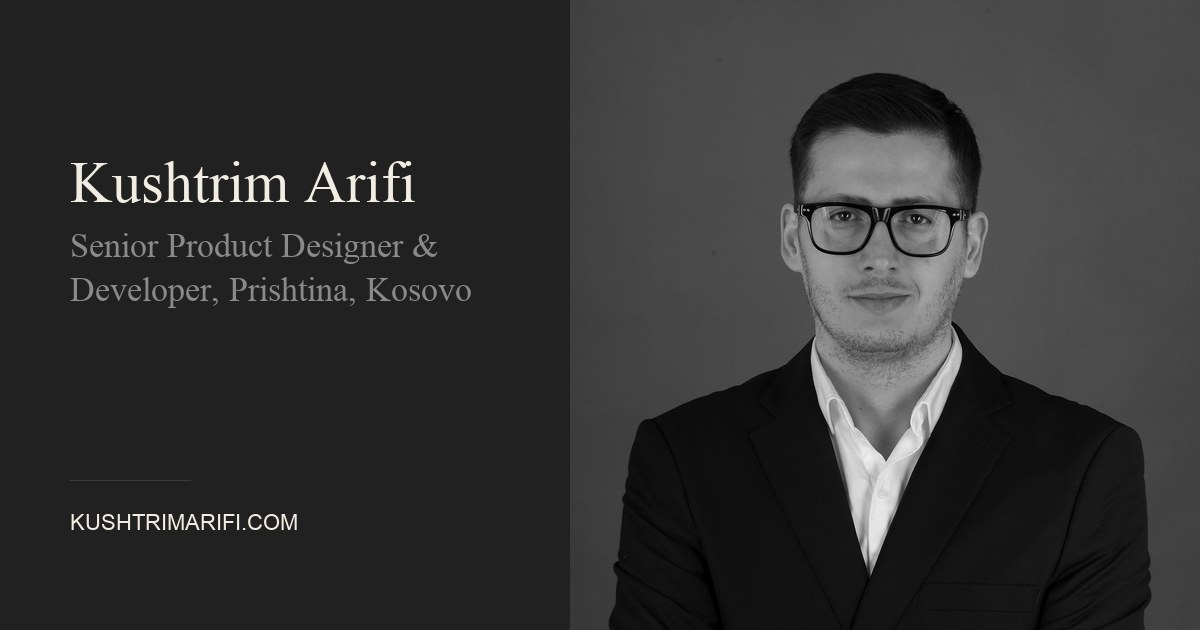
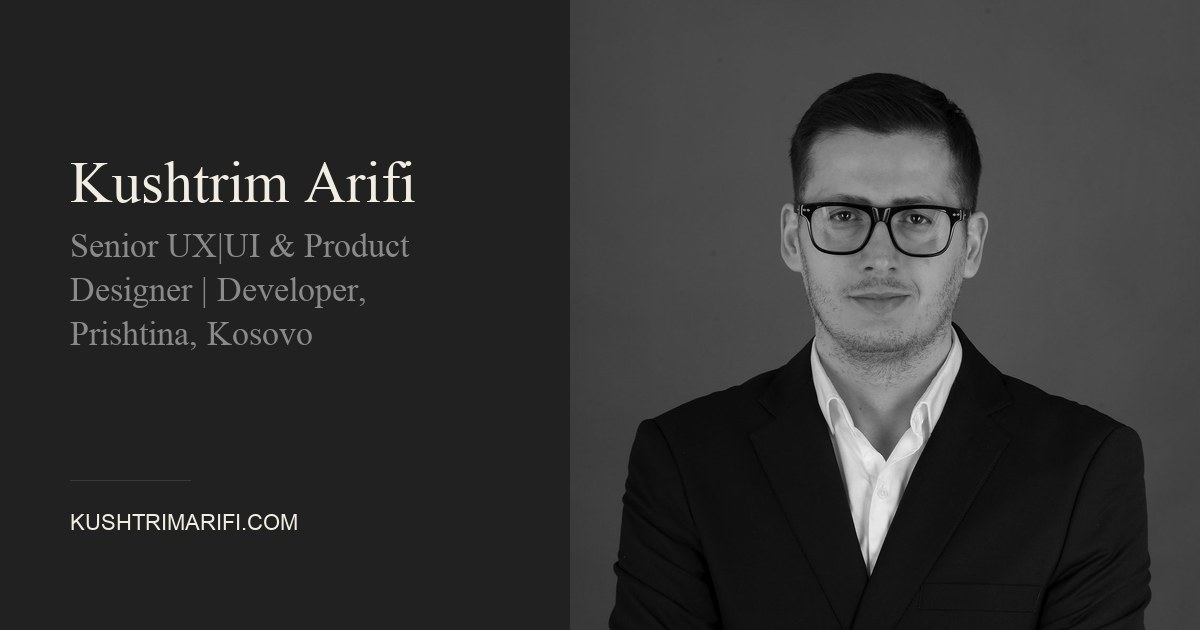
New title: Senior UX|UI & Product Designer | Developer
In place of "Senior Product Designer & Developer" wherever the site gives it as my
title: the home hero caption (still two lines), page titles, descriptions, link-preview
texts and the home and About preview pictures, picture descriptions, the About intro, the
job title in the structured data on every page, the 404 page and the app manifest. The
MONUN role in the experience and CV lists keeps its name. Sitemap dates for home and
About.

Changed region(s): [[0.0925, 0.3619, 0.4008, 0.4825], [0.0617, 0.5127, 0.2775, 0.573]]

diff --git a/index.html b/index.html
@@ -5,9 +5,9 @@
     <meta charset="UTF-8">
     <meta name="viewport" content="width=device-width, initial-scale=1.0">
     <meta name="theme-color" content="#000000">
-    <title>Kushtrim Arifi — Senior Product Designer &amp; Developer, Kosovo</title>
+    <title>Kushtrim Arifi — Senior UX|UI &amp; Product Designer | Developer, Kosovo</title>
     <meta name="description"
-        content="Senior Product Designer & Developer with 10+ years designing web products, from user research to production code in React and Next.js. Based in Kosovo.">
+        content="Senior UX|UI & Product Designer | Developer with 10+ years designing web products, from user research to production code in React and Next.js. Based in Kosovo.">
     <meta name="keywords"
         content="Kushtrim Arifi, UX Designer Schweiz, UI Designer, Front-End Engineer, Webdesigner Zürich, Web Developer, Portfolio, Design Systems, Brand Design, Frontend Entwickler, UX UI Designer Kosovo, Figma Designer">
     <meta name="author" content="Kushtrim Arifi">
@@ -15,15 +15,15 @@
     <link rel="canonical" href="https://kushtrimarifi.com/">
 
     <!-- Open Graph -->
-    <meta property="og:title" content="Kushtrim Arifi — Senior Product Designer &amp; Developer, Kosovo">
+    <meta property="og:title" content="Kushtrim Arifi — Senior UX|UI &amp; Product Designer | Developer, Kosovo">
     <meta property="og:description"
-        content="Senior Product Designer & Developer with 10+ years designing web products, from user research to production code in React and Next.js. Based in Kosovo.">
+        content="Senior UX|UI & Product Designer | Developer with 10+ years designing web products, from user research to production code in React and Next.js. Based in Kosovo.">
     <meta property="og:type" content="profile">
     <meta property="og:url" content="https://kushtrimarifi.com/">
     <meta property="og:image" content="https://kushtrimarifi.com/img/share/home.jpg">
     <meta property="og:image:width" content="1200">
     <meta property="og:image:height" content="630">
-    <meta property="og:image:alt" content="Kushtrim Arifi — Senior Product Designer &amp; Developer, Prishtina, Kosovo, by Kushtrim Arifi">
+    <meta property="og:image:alt" content="Kushtrim Arifi — Senior UX|UI &amp; Product Designer | Developer, Prishtina, Kosovo, by Kushtrim Arifi">
     <meta property="og:site_name" content="Kushtrim Arifi">
     <meta property="og:locale" content="en_US">
     <meta property="profile:first_name" content="Kushtrim">
@@ -31,11 +31,11 @@
 
     <!-- Twitter Card -->
     <meta name="twitter:card" content="summary_large_image">
-    <meta name="twitter:title" content="Kushtrim Arifi — Senior Product Designer &amp; Developer, Kosovo">
+    <meta name="twitter:title" content="Kushtrim Arifi — Senior UX|UI &amp; Product Designer | Developer, Kosovo">
     <meta name="twitter:description"
-        content="Senior Product Designer & Developer with 10+ years designing web products, from user research to production code in React and Next.js. Based in Kosovo.">
+        content="Senior UX|UI & Product Designer | Developer with 10+ years designing web products, from user research to production code in React and Next.js. Based in Kosovo.">
     <meta name="twitter:image" content="https://kushtrimarifi.com/img/share/home.jpg">
-    <meta name="twitter:image:alt" content="Kushtrim Arifi — Senior Product Designer and Developer">
+    <meta name="twitter:image:alt" content="Kushtrim Arifi — Senior UX|UI &amp; Product Designer | Developer">
 
     <!-- Favicon -->
     <link rel="icon" type="image/svg+xml" href="favicon.svg">
@@ -75,12 +75,12 @@
         "name": "Kushtrim Arifi",
         "givenName": "Kushtrim",
         "familyName": "Arifi",
-        "jobTitle": "Senior Product Designer & Developer",
+        "jobTitle": "Senior UX|UI & Product Designer | Developer",
         "url": "https://kushtrimarifi.com/",
         "image": "https://kushtrimarifi.com/img/kaimage.jpg",
         "email": "info@kushtrimarifi.com",
         "telephone": "+38349210999",
-        "description": "Senior Product Designer & Developer with 10+ years of experience designing web and digital products, from user research, information architecture and Figma prototypes to accessible, responsive interfaces, and building them in React, Next.js and TypeScript. 60+ websites and digital projects delivered, with 7+ years working remotely for Swiss companies. MSc in Clinical Psychology, applied to user interviews, usability testing and behavioral insight.",
+        "description": "Senior UX|UI & Product Designer | Developer with 10+ years of experience designing web and digital products, from user research, information architecture and Figma prototypes to accessible, responsive interfaces, and building them in React, Next.js and TypeScript. 60+ websites and digital projects delivered, with 7+ years working remotely for Swiss companies. MSc in Clinical Psychology, applied to user interviews, usability testing and behavioral insight.",
         "knowsAbout": [
           "UX Design",
           "UI Design",
@@ -160,8 +160,8 @@
     <!--
     THESIS: The name around the person. A square portrait on a dark grey field with the name huge on one line through it, "Kushtrim" over its left edge and "Arifi" over its right edge beside the face; the job title small under the start of the name, "Creating since 2015" small at the foot. Refuses the big photo beside a text block.
     OWN-WORLD: #212121 field, #f2ede3 Times New Roman: the name huge, the two captions at one small size; the site's grayscale studio portrait vignetted into the field.
-    STORY: A hiring visitor meets the face and the name first, reads Senior Product Designer & Developer and Creating since 2015 at the foot, then scrolls: the hero holds still while the name starts to burst into particles, and About me follows with the dots still in the air.
-    FIRST VIEWPORT: Square photo just right of centre so the line is centred; "Kushtrim" over its left edge and "Arifi" over its right edge, one line at eye level; "Senior Product Designer & Developer" under the "K" of "Kushtrim", "Creating since 2015" at the foot on the navigation's edge.
+    STORY: A hiring visitor meets the face and the name first, reads Senior UX|UI & Product Designer | Developer and Creating since 2015 at the foot, then scrolls: the hero holds still while the name starts to burst into particles, and About me follows with the dots still in the air.
+    FIRST VIEWPORT: Square photo just right of centre so the line is centred; "Kushtrim" over its left edge and "Arifi" over its right edge, one line at eye level; "Senior UX|UI & Product Designer | Developer" under the "K" of "Kushtrim", "Creating since 2015" at the foot on the navigation's edge.
     FORM: name around the portrait, from the owner's reference image and follow-up notes; a section inside the established world, so no concept seed.
     FINISH: unreviewed and undocumented is unfinished; this build ends with the finish review, the verdict, and DESIGN.md
     -->
@@ -221,7 +221,7 @@
         <div class="hero-stage container">
             <div class="hero-frame">
                 <div class="hero-caption hero-caption--left">
-                    <div class="hero-small-mask"><p class="hero-caption-text">Senior Product Designer &amp;<br>Developer</p></div>
+                    <div class="hero-small-mask"><p class="hero-caption-text">Senior UX|UI &amp; Product Designer |<br>Developer</p></div>
                 </div>
 
                 <h1 class="hero-title-section" aria-label="Kushtrim Arifi">
@@ -233,7 +233,7 @@
                     <picture>
                         <source srcset="img/kaimage.avif" type="image/avif">
                         <source srcset="img/kaimage.webp" type="image/webp">
-                        <img src="img/kaimage.jpg" alt="Kushtrim Arifi, Senior Product Designer and Developer, in a black-and-white portrait" class="hero-portrait" fetchpriority="high" decoding="async" width="1236" height="1200">
+                        <img src="img/kaimage.jpg" alt="Kushtrim Arifi, Senior UX|UI &amp; Product Designer | Developer, in a black-and-white portrait" class="hero-portrait" fetchpriority="high" decoding="async" width="1236" height="1200">
                     </picture>
                 </figure>
 

diff --git a/about.html b/about.html
@@ -5,9 +5,9 @@
     <meta charset="UTF-8">
     <meta name="viewport" content="width=device-width, initial-scale=1.0">
     <meta name="theme-color" content="#000000">
-    <title>About — Senior Product Designer & Developer | Kushtrim Arifi</title>
+    <title>About — Senior UX|UI & Product Designer | Developer | Kushtrim Arifi</title>
     <meta name="description"
-        content="Senior Product Designer & Developer in Prishtina, Kosovo: 10+ years designing web products, 7+ years remote for Swiss companies, MSc in Clinical Psychology.">
+        content="Senior UX|UI & Product Designer | Developer in Prishtina, Kosovo: 10+ years designing web products, 7+ years remote for Swiss companies, MSc in Clinical Psychology.">
     <meta name="keywords"
         content="About Kushtrim Arifi, UX Designer Biography, UX UI Designer Schweiz, Front-End Engineer, Experience, Career, Clinical Psychology UX">
     <meta name="author" content="Kushtrim Arifi">
@@ -15,21 +15,21 @@
     <link rel="canonical" href="https://kushtrimarifi.com/about.html">
 
     <!-- Open Graph -->
-    <meta property="og:title" content="About — Senior Product Designer & Developer | Kushtrim Arifi">
-    <meta property="og:description" content="Senior Product Designer & Developer in Prishtina, Kosovo: 10+ years designing web products, 7+ years remote for Swiss companies, MSc in Clinical Psychology.">
+    <meta property="og:title" content="About — Senior UX|UI & Product Designer | Developer | Kushtrim Arifi">
+    <meta property="og:description" content="Senior UX|UI & Product Designer | Developer in Prishtina, Kosovo: 10+ years designing web products, 7+ years remote for Swiss companies, MSc in Clinical Psychology.">
     <meta property="og:type" content="profile">
     <meta property="og:url" content="https://kushtrimarifi.com/about.html">
     <meta property="og:image" content="https://kushtrimarifi.com/img/share/about.jpg">
     <meta property="og:image:width" content="1200">
     <meta property="og:image:height" content="630">
-    <meta property="og:image:alt" content="Kushtrim Arifi — Senior Product Designer &amp; Developer, Prishtina, Kosovo, by Kushtrim Arifi">
+    <meta property="og:image:alt" content="Kushtrim Arifi — Senior UX|UI &amp; Product Designer | Developer, Prishtina, Kosovo, by Kushtrim Arifi">
     <meta property="og:site_name" content="Kushtrim Arifi">
     <meta property="og:locale" content="en_US">
 
     <!-- Twitter Card -->
     <meta name="twitter:card" content="summary_large_image">
-    <meta name="twitter:title" content="About — Senior Product Designer & Developer | Kushtrim Arifi">
-    <meta name="twitter:description" content="Senior Product Designer & Developer in Prishtina, Kosovo: 10+ years designing web products, 7+ years remote for Swiss companies, MSc in Clinical Psychology.">
+    <meta name="twitter:title" content="About — Senior UX|UI & Product Designer | Developer | Kushtrim Arifi">
+    <meta name="twitter:description" content="Senior UX|UI & Product Designer | Developer in Prishtina, Kosovo: 10+ years designing web products, 7+ years remote for Swiss companies, MSc in Clinical Psychology.">
     <meta name="twitter:image" content="https://kushtrimarifi.com/img/share/about.jpg">
 
     <!-- Favicon -->
@@ -59,12 +59,12 @@
         "name": "Kushtrim Arifi",
         "givenName": "Kushtrim",
         "familyName": "Arifi",
-        "jobTitle": "Senior Product Designer & Developer",
+        "jobTitle": "Senior UX|UI & Product Designer | Developer",
         "url": "https://kushtrimarifi.com/",
         "image": "https://kushtrimarifi.com/img/portrait.jpg",
         "email": "info@kushtrimarifi.com",
         "telephone": "+38349210999",
-        "description": "Senior Product Designer & Developer with 10+ years of experience designing web and digital products, from user research, information architecture and Figma prototypes to accessible, responsive interfaces, and building them in React, Next.js and TypeScript. 60+ websites and digital projects delivered, with 7+ years working remotely for Swiss companies. MSc in Clinical Psychology, applied to user interviews, usability testing and behavioral insight.",
+        "description": "Senior UX|UI & Product Designer | Developer with 10+ years of experience designing web and digital products, from user research, information architecture and Figma prototypes to accessible, responsive interfaces, and building them in React, Next.js and TypeScript. 60+ websites and digital projects delivered, with 7+ years working remotely for Swiss companies. MSc in Clinical Psychology, applied to user interviews, usability testing and behavioral insight.",
         "knowsAbout": ["UX Design", "UI Design", "Front-End Development", "Design Systems", "Brand Design", "Figma", "Web Development", "Clinical Psychology"],
         "knowsLanguage": ["en", "de", "sq"],
         "worksFor": {
@@ -165,12 +165,12 @@
                     <picture>
                         <source srcset="img/kaimage.avif" type="image/avif">
                         <source srcset="img/kaimage.webp" type="image/webp">
-                        <img src="img/kaimage.jpg" alt="Kushtrim Arifi, Senior Product Designer and Developer, in a black-and-white portrait" width="1236" height="1200" fetchpriority="high" decoding="async">
+                        <img src="img/kaimage.jpg" alt="Kushtrim Arifi, Senior UX|UI &amp; Product Designer | Developer, in a black-and-white portrait" width="1236" height="1200" fetchpriority="high" decoding="async">
                     </picture>
                     <div class="about-intro-shade" aria-hidden="true"></div>
                 </figure>
                 <div class="about-intro-text">
-                    <p>I’m <span class="about-accent">Kushtrim</span>, a Senior Product Designer &amp; Developer based in Prishtina, Kosovo. I design websites and digital products, with a focus on usability and interaction design. I aim to <span class="about-accent">reduce cognitive load</span> through clear navigation, a strong visual hierarchy, and consistent interactions, helping people find what they need and understand what to do next.</p>
+                    <p>I’m <span class="about-accent">Kushtrim</span>, a Senior UX|UI &amp; Product Designer | Developer based in Prishtina, Kosovo. I design websites and digital products, with a focus on usability and interaction design. I aim to <span class="about-accent">reduce cognitive load</span> through clear navigation, a strong visual hierarchy, and consistent interactions, helping people find what they need and understand what to do next.</p>
                     <p>I started in graphic design and branding in 2015. Over time, my work grew into UX/UI and product design. Since 2020, I’ve worked almost exclusively with <span class="about-accent">Swiss companies</span>, alongside occasional projects in Kosovo.</p>
                     <p>I work mainly on the front end, and also handle back-end development. I enjoy being able to <span class="about-accent">build what I design</span> and work through the details as it takes shape.</p>
                     <p>I also have a master’s degree in <span class="about-accent">Clinical Psychology</span>. Studying people’s behaviour has shaped how I approach user research and usability testing. I pay attention to <span class="about-accent">where someone hesitates</span>, what they expect to happen, and what makes a task confusing. Those observations help me question my assumptions and refine the design.</p>

diff --git a/404.html b/404.html
@@ -6,7 +6,7 @@
     <meta name="viewport" content="width=device-width, initial-scale=1.0">
     <meta name="theme-color" content="#212121">
     <title>404 — Page Not Found | Kushtrim Arifi</title>
-    <meta name="description" content="The page you were looking for doesn't exist. Browse the portfolio of Senior Product Designer & Developer Kushtrim Arifi instead.">
+    <meta name="description" content="The page you were looking for doesn't exist. Browse the portfolio of Senior UX|UI & Product Designer | Developer Kushtrim Arifi instead.">
     <meta name="robots" content="noindex, follow">
 
     <!-- Favicon (absolute paths so they work for any 404 URL) -->

diff --git a/work/baren.html b/work/baren.html
@@ -63,7 +63,7 @@
         "@id": "https://kushtrimarifi.com/#person",
         "name": "Kushtrim Arifi",
         "url": "https://kushtrimarifi.com/",
-        "jobTitle": "Senior Product Designer & Developer"
+        "jobTitle": "Senior UX|UI & Product Designer | Developer"
       }
     }
     </script>

diff --git a/work/cityhotel.html b/work/cityhotel.html
@@ -63,7 +63,7 @@
         "@id": "https://kushtrimarifi.com/#person",
         "name": "Kushtrim Arifi",
         "url": "https://kushtrimarifi.com/",
-        "jobTitle": "Senior Product Designer & Developer"
+        "jobTitle": "Senior UX|UI & Product Designer | Developer"
       }
     }
     </script>

diff --git a/work/doratec.html b/work/doratec.html
@@ -63,7 +63,7 @@
         "@id": "https://kushtrimarifi.com/#person",
         "name": "Kushtrim Arifi",
         "url": "https://kushtrimarifi.com/",
-        "jobTitle": "Senior Product Designer & Developer"
+        "jobTitle": "Senior UX|UI & Product Designer | Developer"
       }
     }
     </script>

diff --git a/work/ennur.html b/work/ennur.html
@@ -63,7 +63,7 @@
         "@id": "https://kushtrimarifi.com/#person",
         "name": "Kushtrim Arifi",
         "url": "https://kushtrimarifi.com/",
-        "jobTitle": "Senior Product Designer & Developer"
+        "jobTitle": "Senior UX|UI & Product Designer | Developer"
       }
     }
     </script>

diff --git a/work/hbs-website.html b/work/hbs-website.html
@@ -63,7 +63,7 @@
         "@id": "https://kushtrimarifi.com/#person",
         "name": "Kushtrim Arifi",
         "url": "https://kushtrimarifi.com/",
-        "jobTitle": "Senior Product Designer & Developer"
+        "jobTitle": "Senior UX|UI & Product Designer | Developer"
       }
     }
     </script>

diff --git a/work/hbs.html b/work/hbs.html
@@ -63,7 +63,7 @@
         "@id": "https://kushtrimarifi.com/#person",
         "name": "Kushtrim Arifi",
         "url": "https://kushtrimarifi.com/",
-        "jobTitle": "Senior Product Designer & Developer"
+        "jobTitle": "Senior UX|UI & Product Designer | Developer"
       }
     }
     </script>

diff --git a/work/jetonikeramika.html b/work/jetonikeramika.html
@@ -63,7 +63,7 @@
         "@id": "https://kushtrimarifi.com/#person",
         "name": "Kushtrim Arifi",
         "url": "https://kushtrimarifi.com/",
-        "jobTitle": "Senior Product Designer & Developer"
+        "jobTitle": "Senior UX|UI & Product Designer | Developer"
       }
     }
     </script>

diff --git a/work/mardal.html b/work/mardal.html
@@ -63,7 +63,7 @@
         "@id": "https://kushtrimarifi.com/#person",
         "name": "Kushtrim Arifi",
         "url": "https://kushtrimarifi.com/",
-        "jobTitle": "Senior Product Designer & Developer"
+        "jobTitle": "Senior UX|UI & Product Designer | Developer"
       }
     }
     </script>

diff --git a/work/monun.html b/work/monun.html
@@ -63,7 +63,7 @@
         "@id": "https://kushtrimarifi.com/#person",
         "name": "Kushtrim Arifi",
         "url": "https://kushtrimarifi.com/",
-        "jobTitle": "Senior Product Designer & Developer"
+        "jobTitle": "Senior UX|UI & Product Designer | Developer"
       }
     }
     </script>
